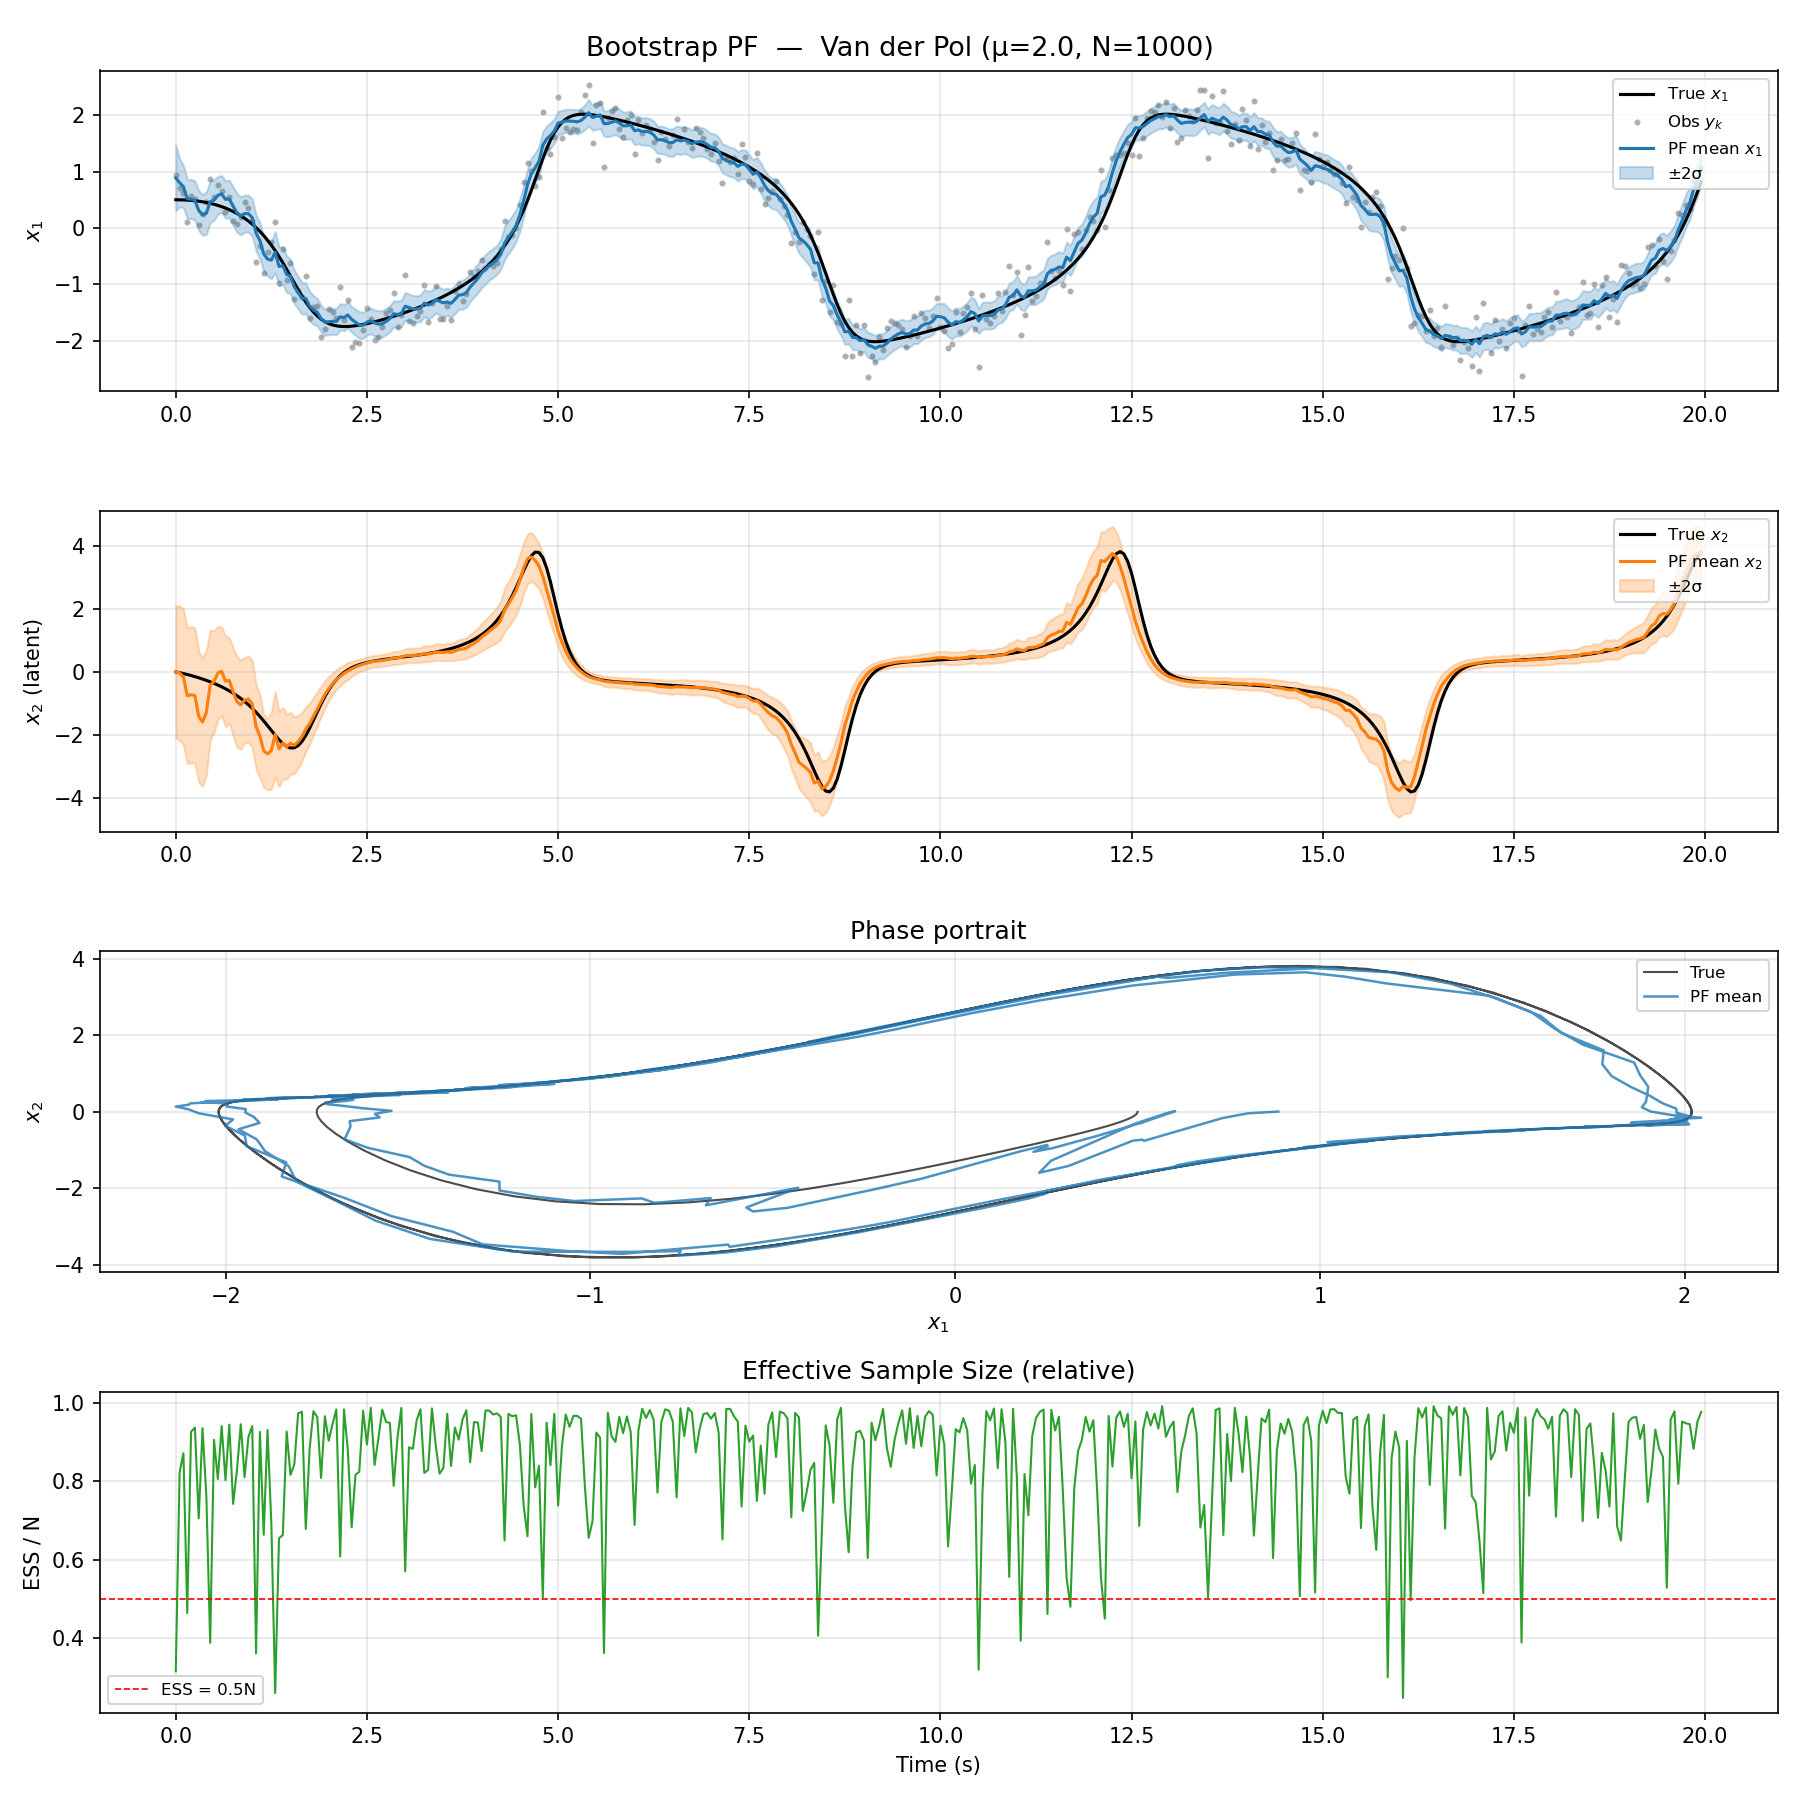
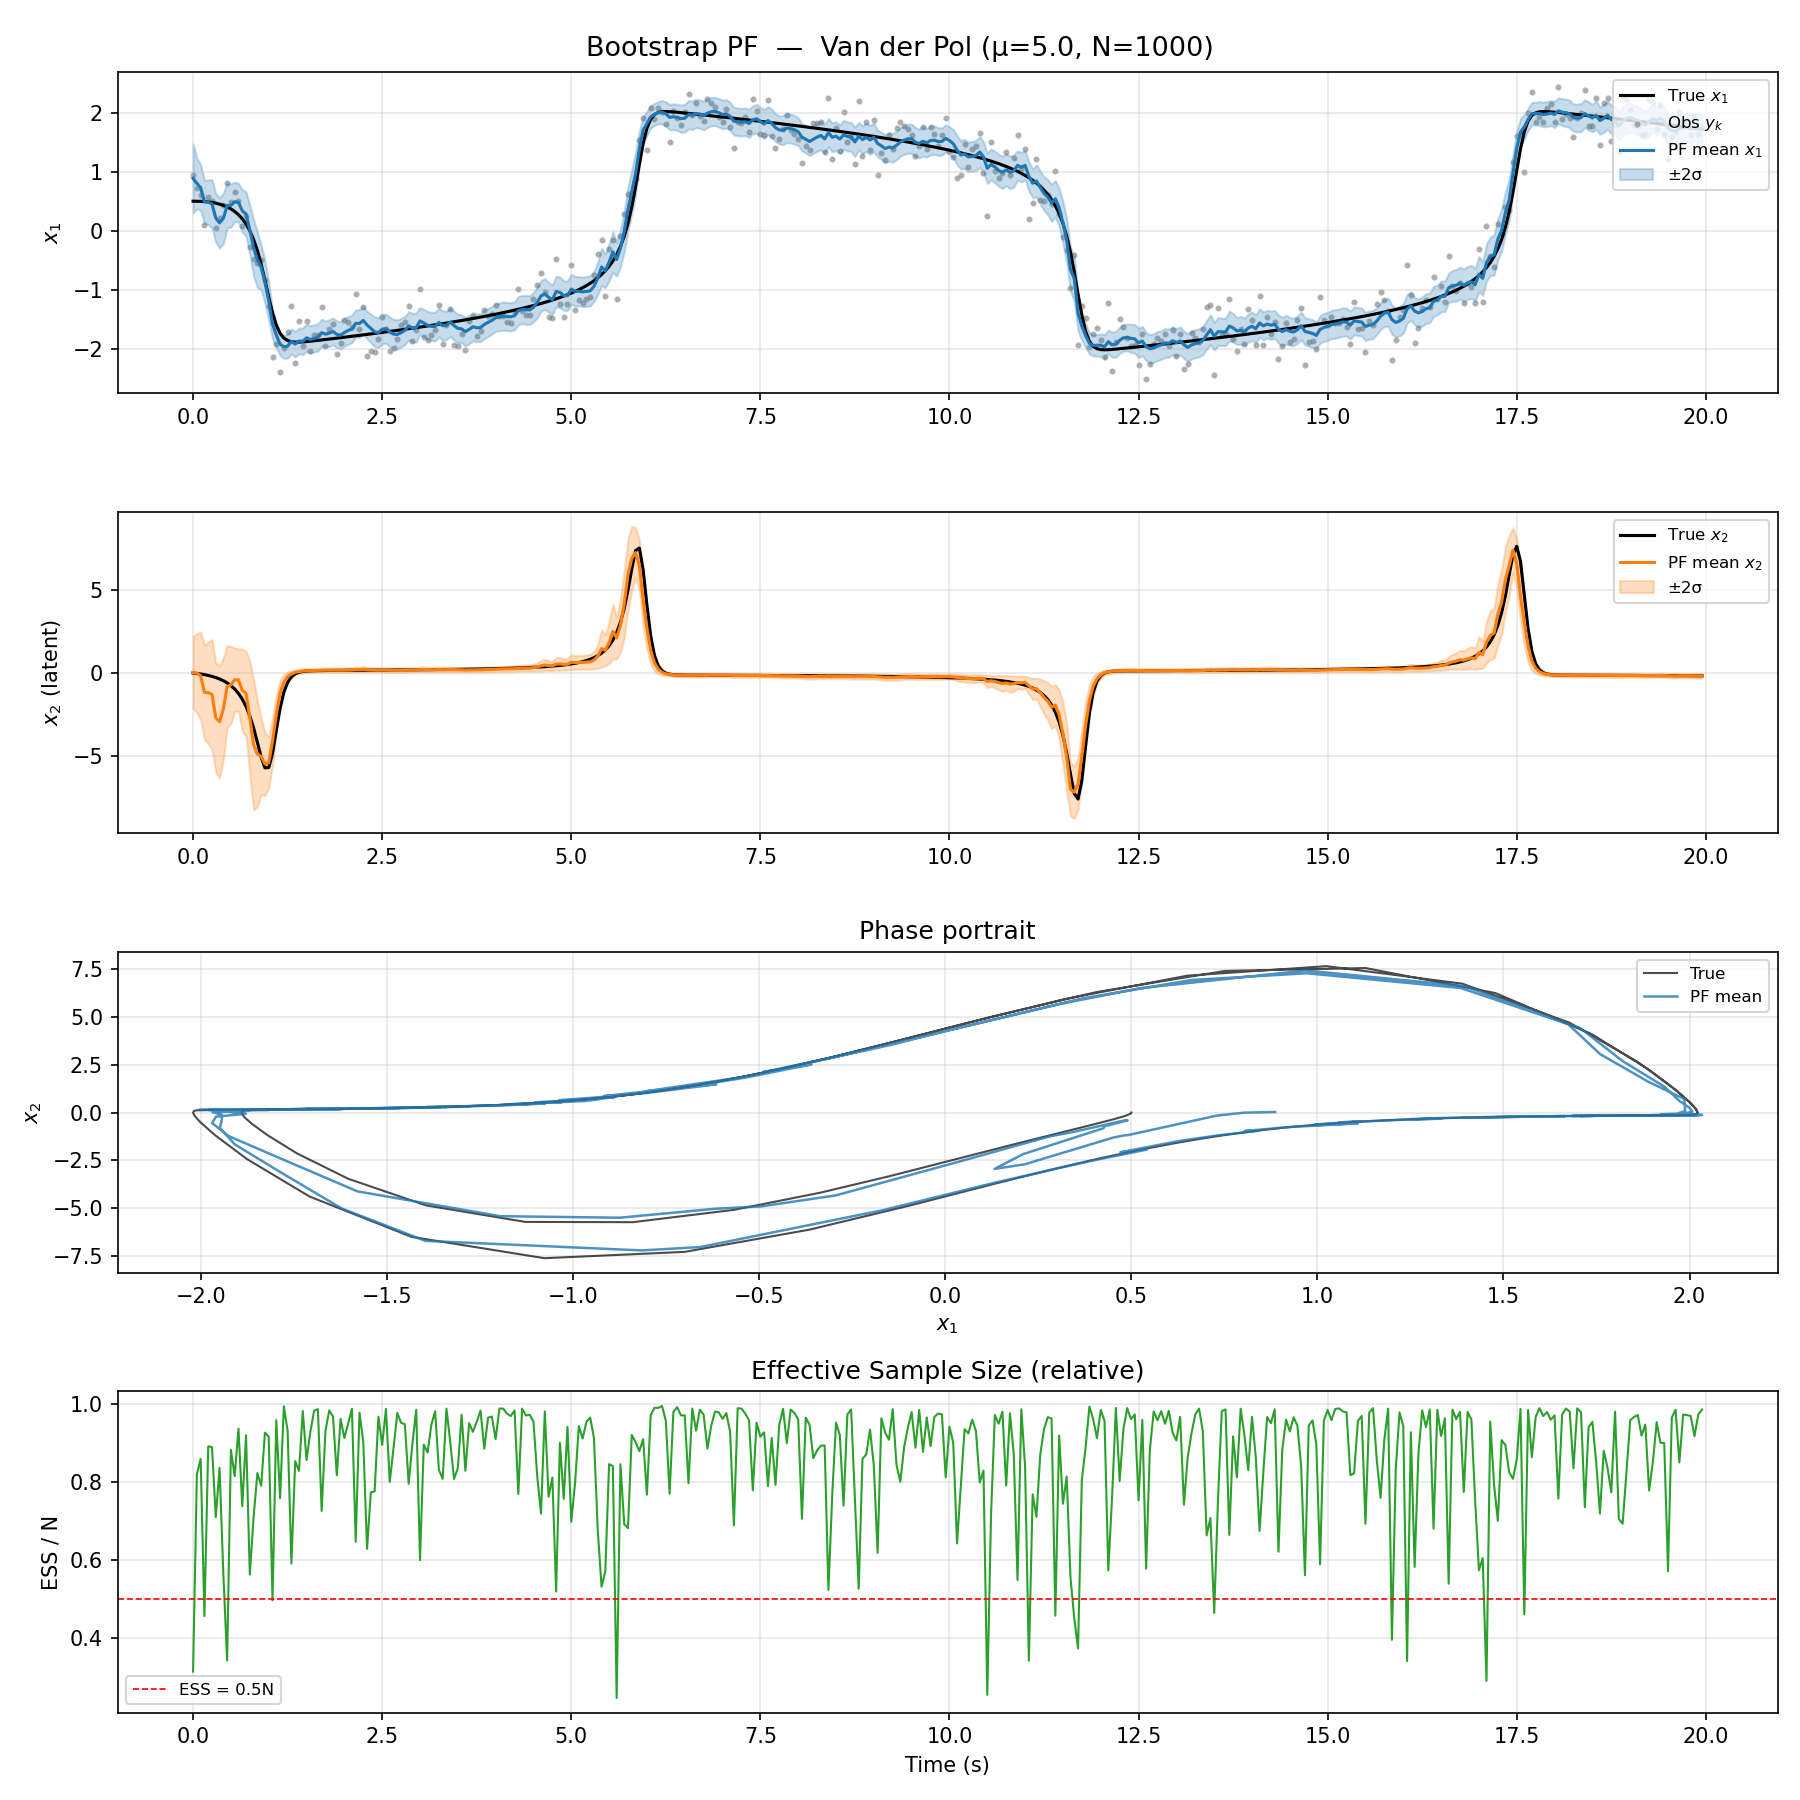
everything is good

diff --git a/hw5/vdp_pf.py b/hw5/vdp_pf.py
@@ -1,11 +1,11 @@
 import jax
 import jax.numpy as jnp
-from jax import Array
+import addcopyfighandler # noqa
 from matplotlib import pyplot as plt
 from functools import partial
 
 # Global variables
-MU = 2.0
+MU = 5.0
 DT = 0.05
 T_END = 20.0
 N_PARTICLES = 1000

diff --git a/hw4/hw4_problem2.py b/hw4/hw4_problem2.py
@@ -181,7 +181,7 @@ rng = np.random.default_rng(10)
 
 # Time vector
 dt = 0.05
-tf = 50.0
+tf = 20.0
 t = np.arange(0, tf + dt, dt)
 nt = len(t)
 
